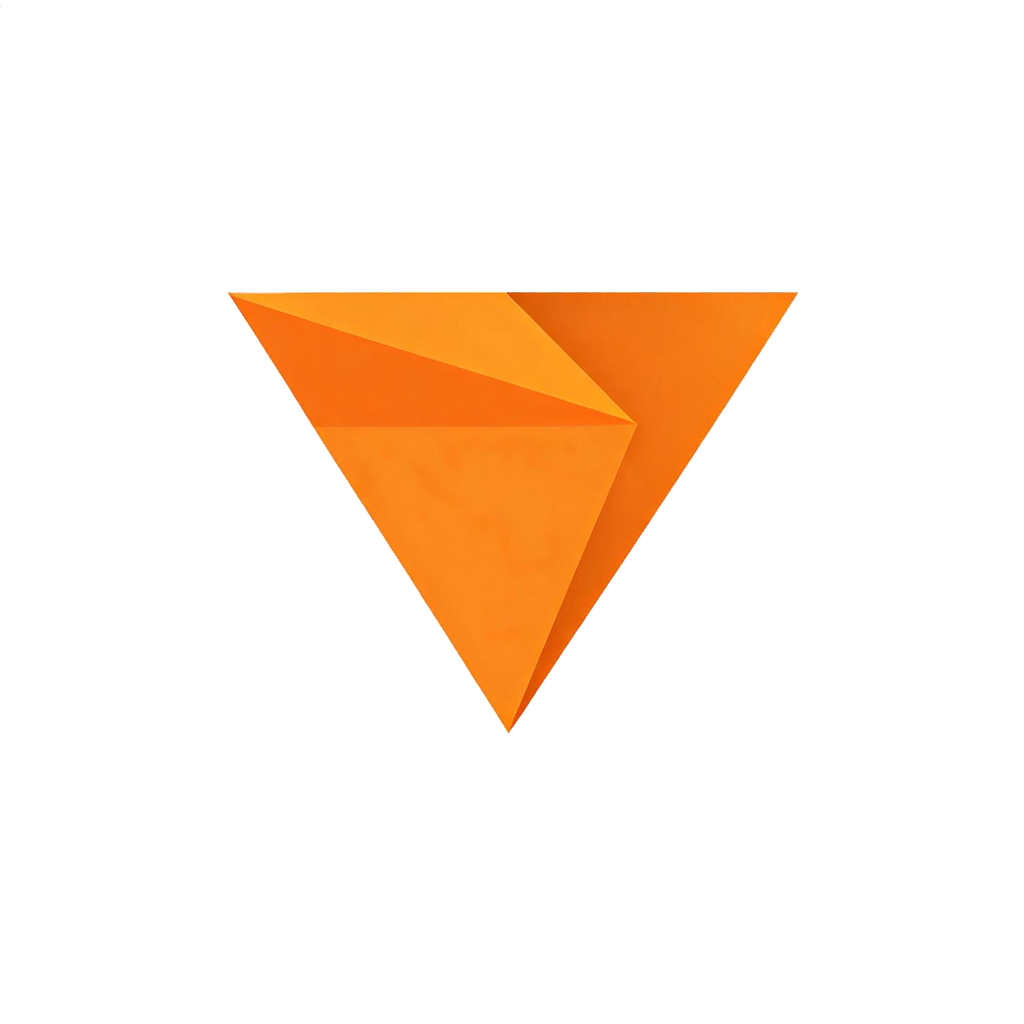
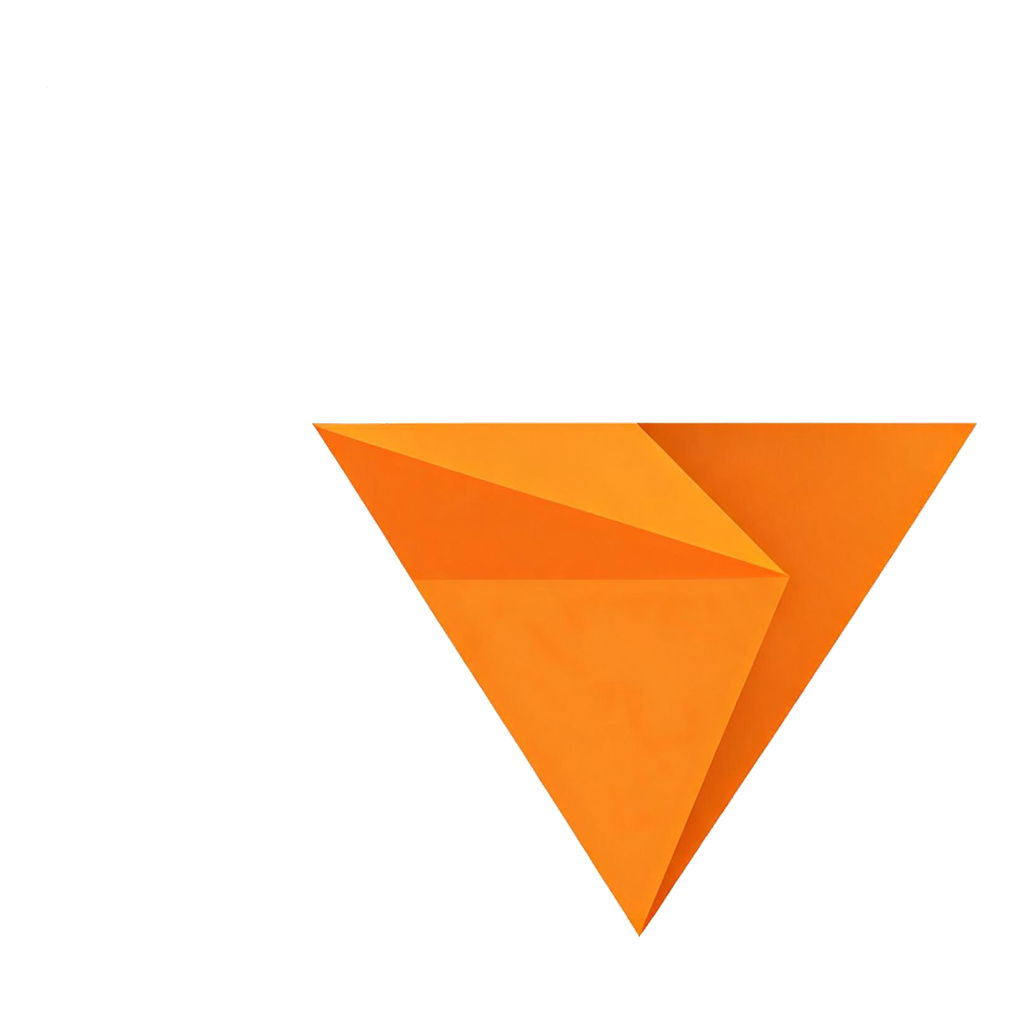
feat: 优化应用图标设计

Changed region(s): [[0.2188, 0.2812, 0.9688, 0.9062]]

diff --git a/frontend/scripts/generate-icons.js b/frontend/scripts/generate-icons.js
@@ -1,13 +1,9 @@
 import { createRequire } from 'module';
 const require = createRequire(import.meta.url);
 const sharp = require('/root/.nvm/versions/node/v24.1.0/lib/node_modules/sharp');
-import { readFileSync } from 'fs';
 
 // PNG 源图：AI 生成的带渐变细节的原图（1024x1024），往下缩到各尺寸
 const sourceImage = '../.scratch/icon-design-4.jpg';
-
-// SVG 源文件：简化版，用于 favicon.svg
-const svg = readFileSync('./public/favicon.svg', 'utf-8');
 
 const pngSizes = [
   { name: 'favicon-16x16.png', size: 16 },
@@ -19,48 +15,44 @@ const pngSizes = [
 ];
 
 /**
- * 去除白色背景：将接近白色的像素设为透明
- * 先在大图上处理，再缩小，避免抗锯齿边缘丢失
+ * 去除白色背景，裁剪到内容区域，居中到正方形透明画布
  */
-async function removeWhiteBackground(inputBuffer) {
-  // 确保有 alpha 通道
-  const withAlpha = await sharp(inputBuffer).ensureAlpha().toBuffer();
+async function removeWhiteBackgroundAndCrop(inputBuffer, padding = 0.1) {
+  // 使用 sharp 内置 trim 自动裁剪白色背景
+  let trimmed = await sharp(inputBuffer).trim(20).toBuffer();
+  const meta = await sharp(trimmed).metadata();
+  const cropW = meta.width;
+  const cropH = meta.height;
 
-  // 使用 raw 像素数据进行颜色替换
-  const { data, info } = await sharp(withAlpha)
-    .raw()
-    .toBuffer({ resolveWithObject: true });
+  // 居中到正方形透明画布，留出 padding
+  const pad = Math.round(Math.max(cropW, cropH) * padding);
+  const squareSize = Math.max(cropW, cropH) + pad * 2;
+  const offsetX = Math.round((squareSize - cropW) / 2);
+  const offsetY = Math.round((squareSize - cropH) / 2);
 
-  // 遍历像素，将接近白色的设为透明
-  const threshold = 230;
-  for (let i = 0; i < data.length; i += info.channels) {
-    const r = data[i];
-    const g = data[i + 1];
-    const b = data[i + 2];
-    const brightness = (r + g + b) / 3;
-    if (brightness > threshold) {
-      data[i + 3] = 0;
-    }
-  }
-
-  return sharp(data, {
-    raw: {
-      width: info.width,
-      height: info.height,
-      channels: info.channels,
+  return sharp({
+    create: {
+      width: squareSize,
+      height: squareSize,
+      channels: 4,
+      background: { r: 0, g: 0, b: 0, alpha: 0 },
     },
-  });
+  })
+    .composite([{ input: trimmed, left: offsetX, top: offsetY }])
+    .png()
+    .toBuffer();
 }
 
 async function generateIcons() {
-  // 先在大图上处理背景，再缩小到目标尺寸
-  const largeProcessed = await removeWhiteBackground(
-    await sharp(sourceImage).resize(2048, 2048).png().toBuffer()
+  // 先放大处理背景 + 裁剪 + 居中到正方形，再缩小到目标尺寸
+  const processed = await removeWhiteBackgroundAndCrop(
+    await sharp(sourceImage).resize(2048, 2048).png().toBuffer(),
+    0.05 // 5% 留白，让图标在小尺寸下更大
   );
 
-  // 从处理后的透明大图往下缩生成 PNG
+  // 从处理后的透明图往下缩生成 PNG
   for (const { name, size } of pngSizes) {
-    await largeProcessed
+    await processed
       .clone()
       .resize(size, size)
       .png()
